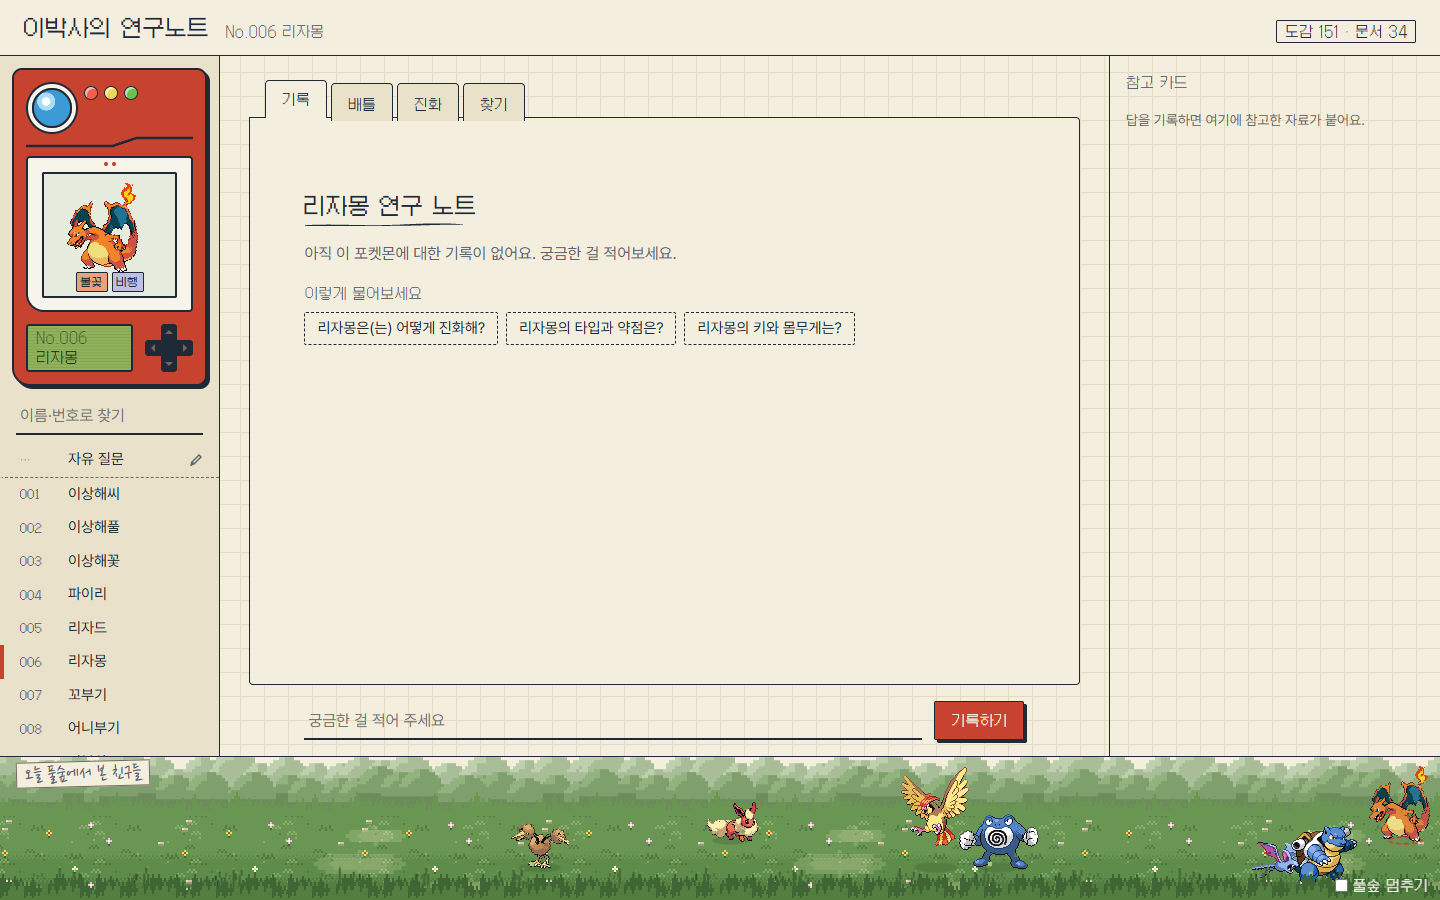
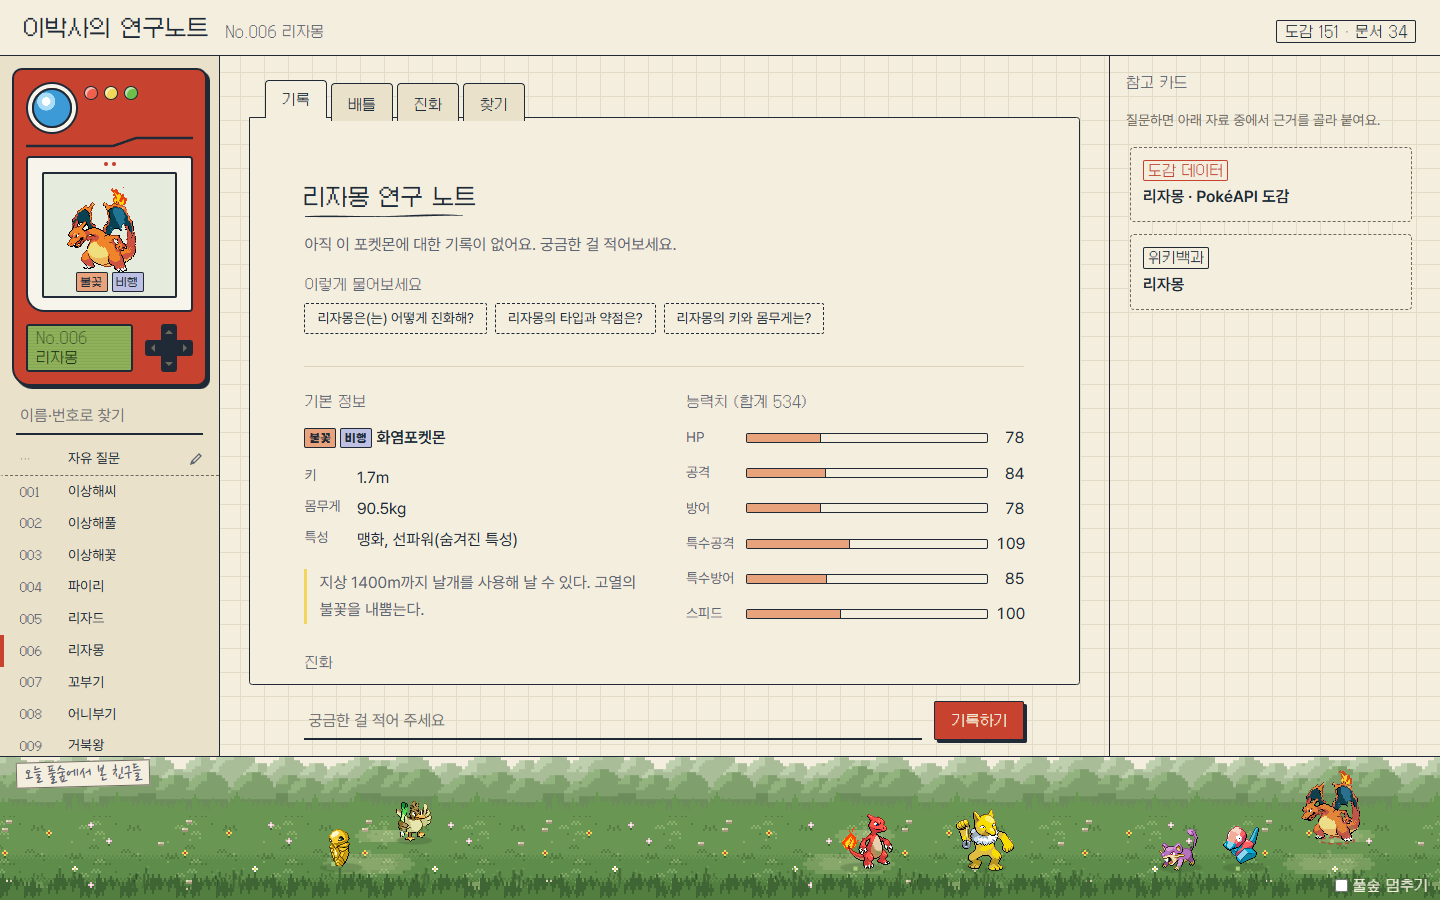
[검증] 새 디자인으로 V12 캡처 다시 찍기, 도감 페이지 캡처 추가
- V12: 기록이 없는 리자몽 노트가 빈 종이 대신 도감 페이지로 바뀌어 다시 찍음 (자유 질문 기록은 섞이지 않음)
- F2009_dex_page.png: 기록이 없는 포켓몬의 도감 페이지 (이상해꽃)

diff --git a/docs/verification.md b/docs/verification.md
@@ -3,7 +3,7 @@
 상태: ✅ 통과 · ❌ 실패 · ⬜ 미확인.
 실행 기록 원본은 `docs/evidence/`에 있습니다 (`checks.md`는 `python -m scripts.run_checks`로 다시 만들 수 있음).
 화면 캡처는 `docs/screenshots/`에 있습니다 (2026-10-22, 실제 키로 켠 서버를 크롬으로 조작해 찍음. 터미널 그림은 명령 출력을 그대로 옮김. V06·V07은 다시 실행하면 색인이 바뀌어 기록 파일을 그림으로 옮김).
-추가 캡처: `F2009_first_screen.png`(첫 화면), `F2012_progress.png`(답을 찾는 중 진행 상태), `F2013_mobile_390.png`(좁은 화면).
+추가 캡처: `F2009_first_screen.png`(첫 화면), `F2012_progress.png`(답을 찾는 중 진행 상태), `F2013_mobile_390.png`(좁은 화면), `F2009_dex_page.png`(기록이 없는 포켓몬의 도감 페이지). V12 두 장은 도감 페이지를 넣은 뒤 다시 찍음.
 
 검증 환경: 2026-10-21 · gpt-4.1-mini / text-embedding-3-small · 청크 800/150 · Top-k 5 · similarity
 
